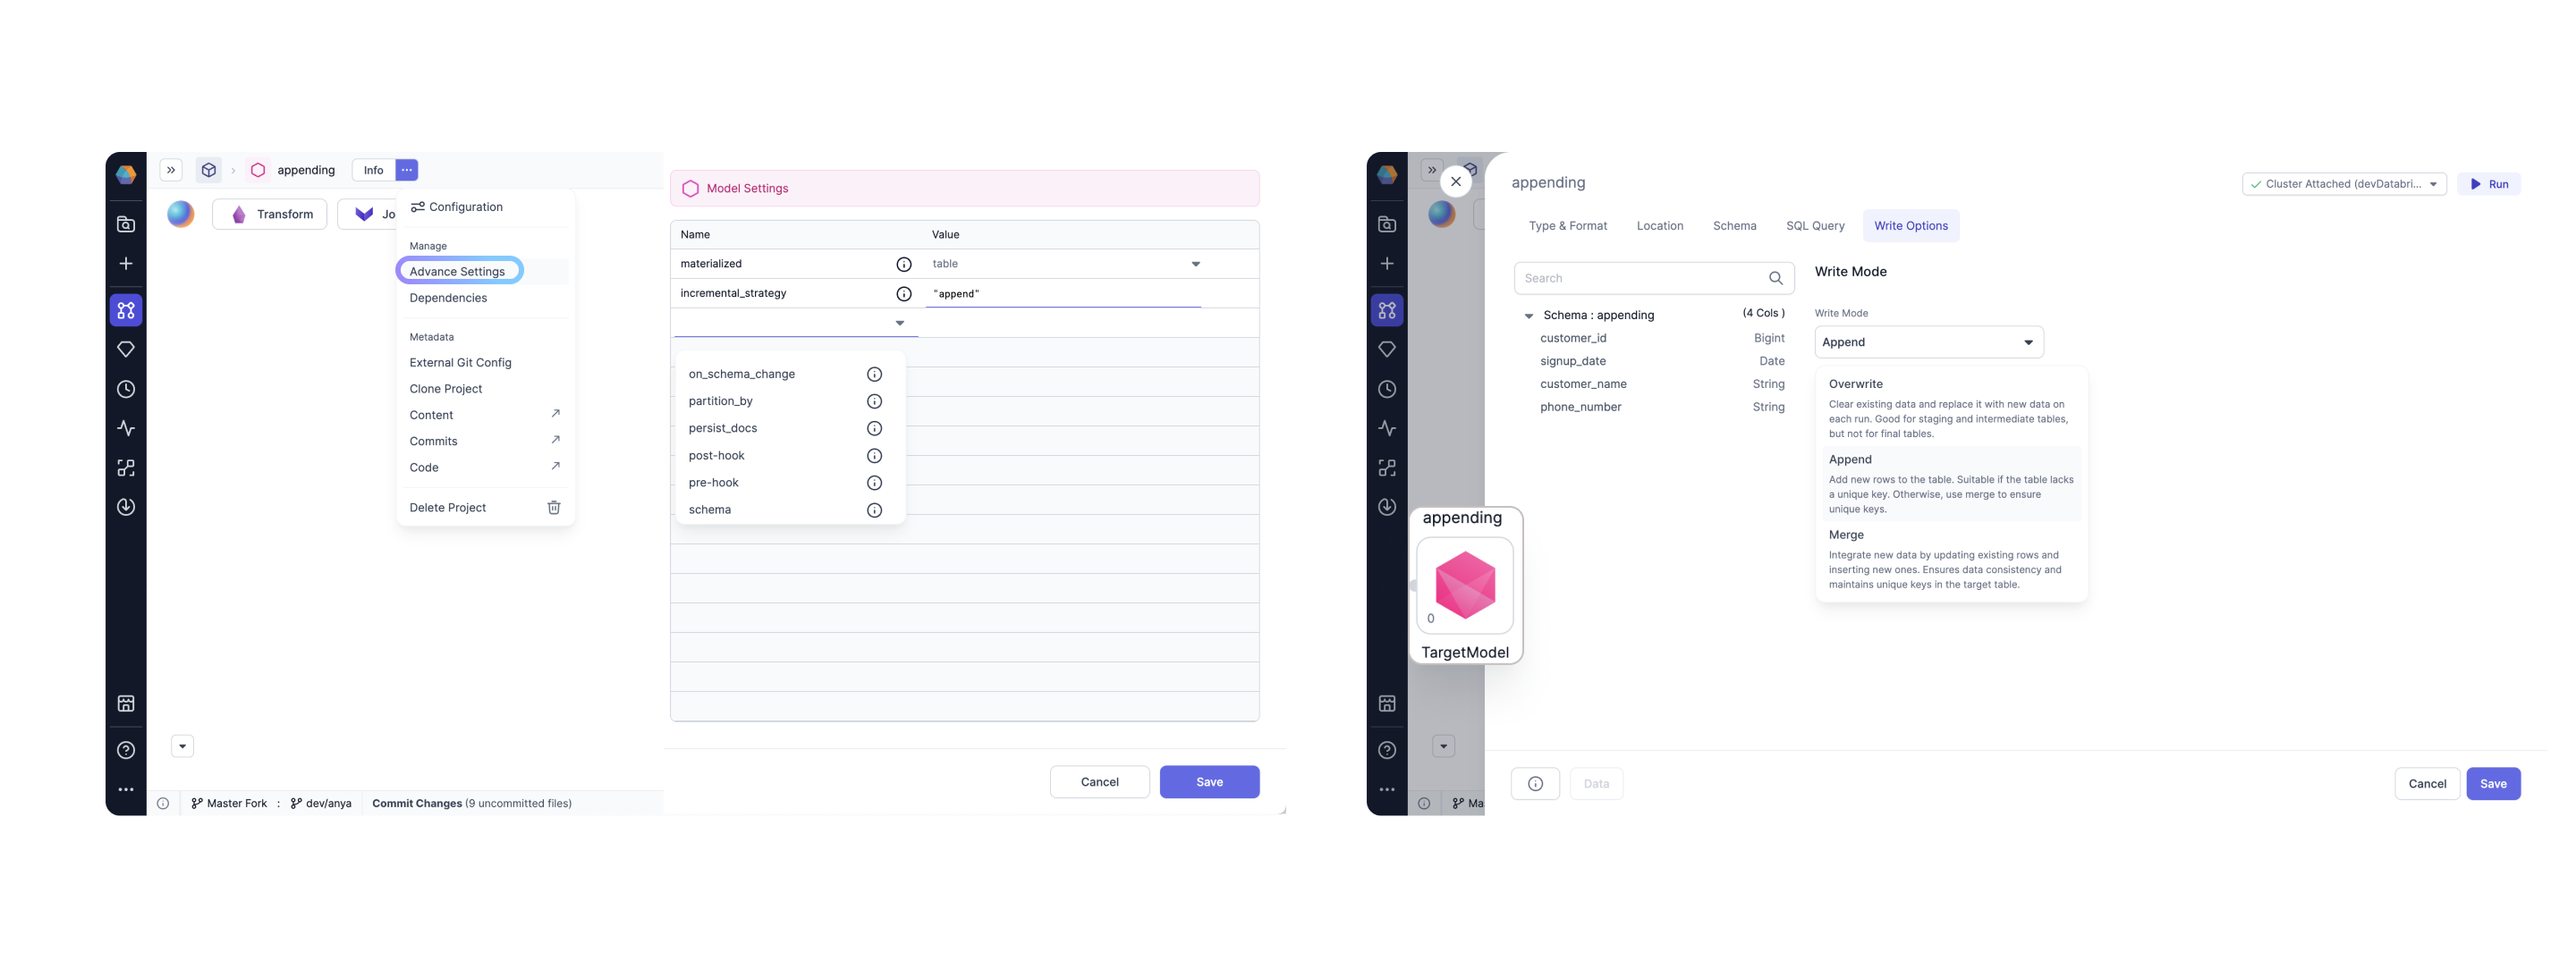
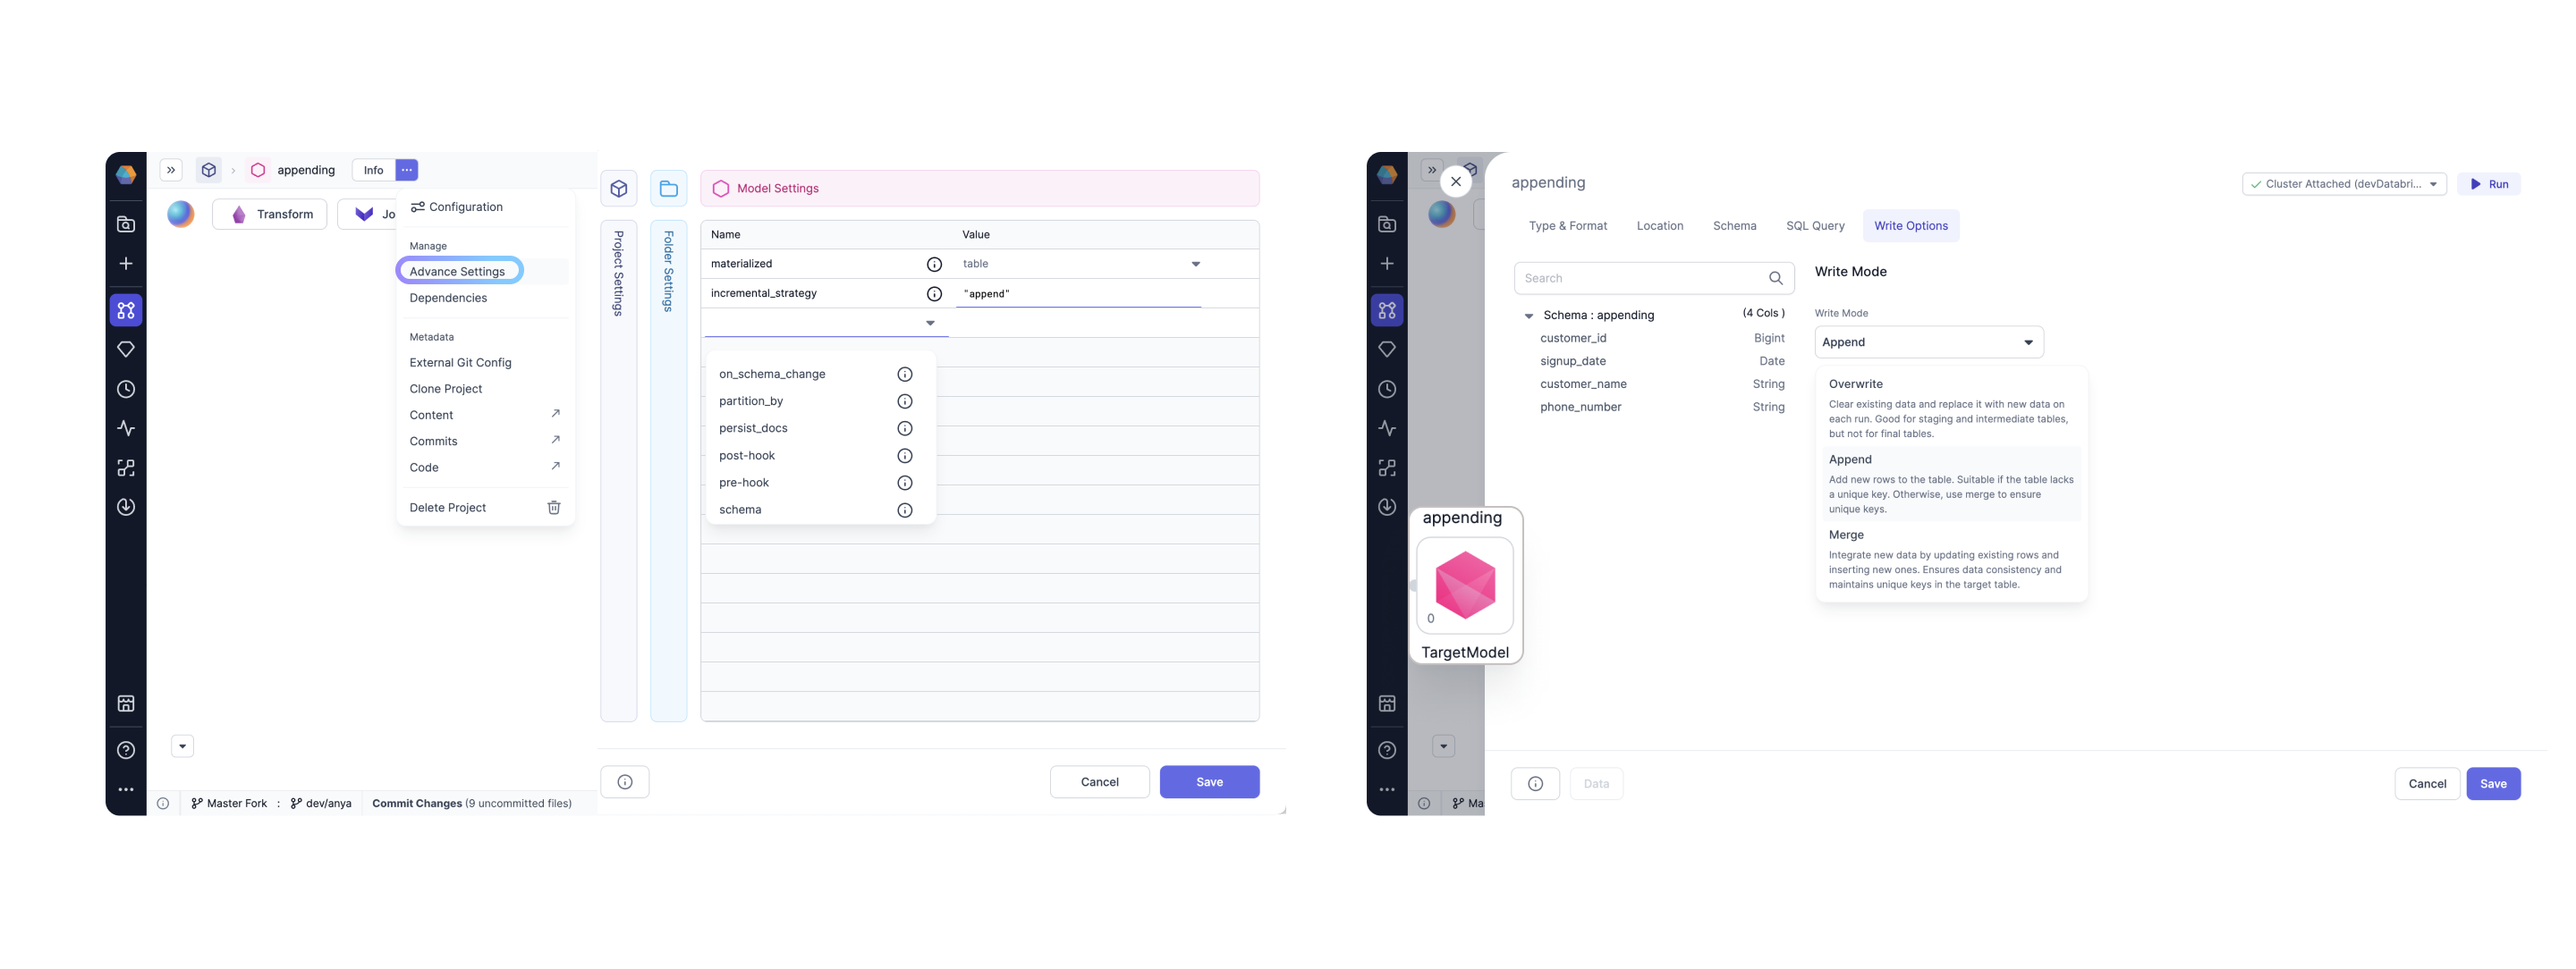
added declare vars section

Changed region(s): [[0.25, 0.3653, 0.3125, 0.548], [0.25, 0.1827, 0.3125, 0.3349], [0.3438, 0.274, 0.375, 0.3349]]

diff --git a/docs/release_notes/2024/august2024/new-ui-sql.md b/docs/release_notes/2024/august2024/new-ui-sql.md
@@ -21,21 +21,25 @@ Prophecy's SQL Transformation Copilot has a new user interface in four different
       style={{position: 'absolute', top: 0, left: 0, width: '100%', height: '100%'}}></iframe>
 </div>
 
-### Target Model
+### Model write options
 
-In this release, we've updated the UX and capabilities of the target model in SQL projects. In the previous release, you'd find advanced settings (left) are available for defining model write formats and lots of other DBT options. In this release, the advanced settings are still available, but the most frequently used settings are accessible in the target model Gem as well (right).
+In this release, we've updated the UX and capabilities of the target model format and write options. In the previous release, you'd find **advanced settings** are available for defining model write formats and lots of other DBT options (left). In this release, the advanced settings are still available, but the most frequently used settings are accessible in the target model Gem as well (right).
 
-![TargetModel](./img/target-model.png)
+![ModelWrites](./img/target-model.png)
 
 There are now the following tabs within the model:
 
-- **Type & Format**: Update the format of the model
+- **Type & Format**: Update the format of the model, eg table, view, ephemeral, etc.
 - **Location**: Update the location by overwriting the Database, Schema, or Alias
 - **Schema**: Make schema changes
 - **SQL Query**: View and enable your custom SQL query
 - **Write Options**: Use Write Modes such as Overwrite, Append, and Merge
 
 ### Variable Declaration Interface
+
+We've added the powerful functionality to configure variables directly in the SQL Query for each target model. Normally only advanced users would be able to configure the code view with declared variables. With this release, declared variables are accessible by clicking **configure** to add the variable of interest (left). Just use the variable for the relevant model in the target model SQL Query tab (right).
+
+![DelcarVars](./img/declare-vars.png)
 
 ### Building SCD2 Tables
 
